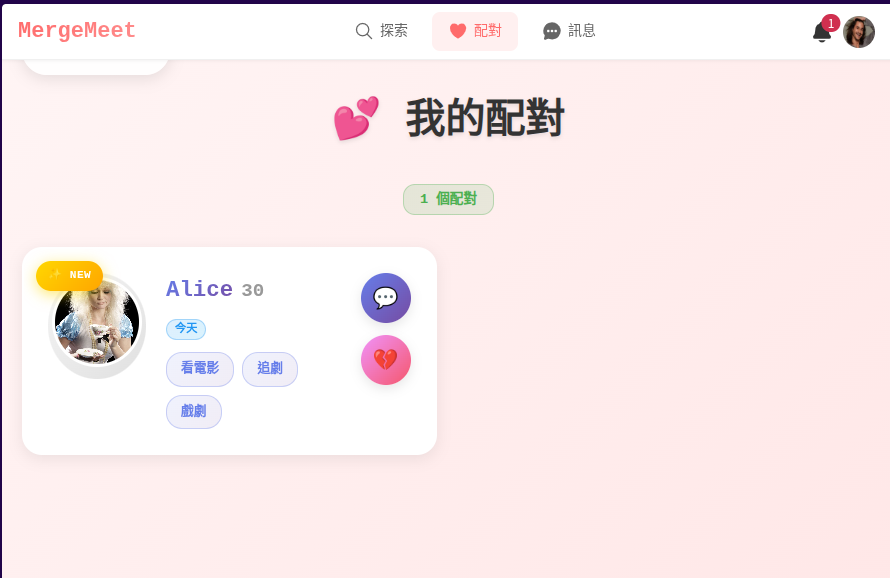
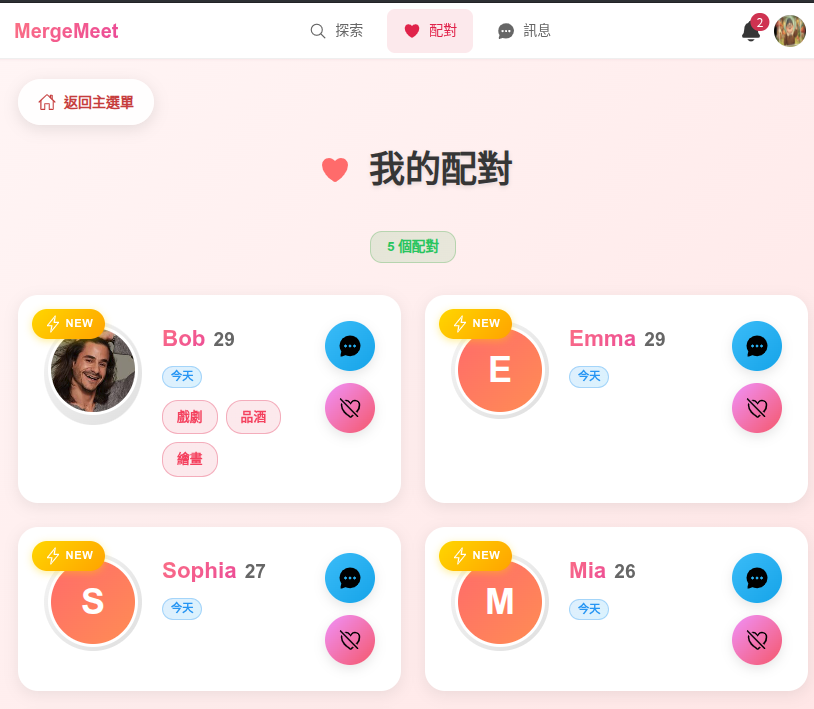
docs: 更新代碼規模統計與全部頁面截圖
使用 cloc 重新計算純程式碼行數（30,716 行），替換原先 wc -l 的粗估數據，並更新六張功能頁面截圖至最新版本

diff --git a/README.md b/README.md
@@ -12,7 +12,7 @@
 |------|------|
 | **版本** | 1.0.0 MVP |
 | **開發進度** | ✅ Week 1-6 已完成 |
-| **代碼規模** | 約 43,400 行（後端 11,644 + 前端 20,303 + 測試 11,450，含空行和註釋） |
+| **代碼規模** | 純程式碼約 30,716 行（後端 6,504 + 前端 17,194 + 測試 7,018），含空行和註釋共 44,146 行 |
 
 ### 技術棧
 
